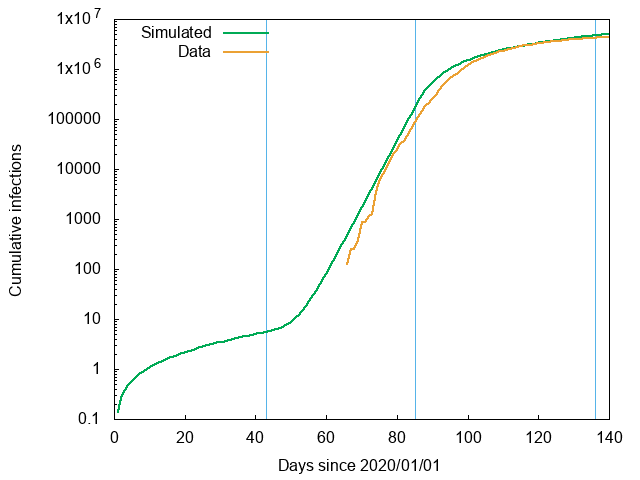
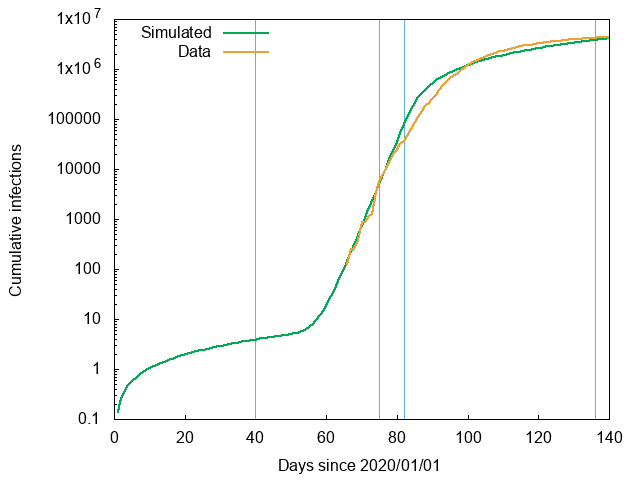
fit better

diff --git a/README-Assumptions.md b/README-Assumptions.md
@@ -164,7 +164,7 @@ the duration of infectiousness and is fixed at one week.
 
 *Justification:*
 
-### Assumption: the overall infection fatality rate (IFR) is 0.008
+### Assumption: the overall infection fatality rate (IFR) is 0.01
 
 The model does not explicitly produce a time-series for the number of dead.
 Rather, it produces the number of individuals removed through recovery or death.
@@ -174,7 +174,9 @@ vary and reflection in the model as the probability of infection (and
 consequently the overall force of the epidemic) depends strongly on this value.
 
 *Justification:* scientific consensus appears to be converging on an IFR of
-around 1% or slightly lower [citation]. However we conduct sensitivity analysis 
+around 1% [citation]. However we conduct sensitivity analysis on the resulting
+infectiousness parameter to understand how this affects the behaviour of the
+model.
 
 ## Fitting the data
 
@@ -184,13 +186,13 @@ scientific consensus. The [PTTI software] includes a tool, `ptti-fit`, for
 calibrating the model to mortality data. The fitting is conducted using the
 [fitting scenario] that includes three interventions:
 
-  * on the 12th of February
-  * on the 26th of March
+  * on the 18th of February
+  * on the 23rd of March
   * on the 13th of May
 
 The first intervention represents a notional start to the epidemic implied by
-the UK government figures. However, we do not believe this to be the true
-date as discussed below
+the UK government figures under our model. However, we do not believe this to be
+the true date as discussed below.
 
 The number of contacts per unit time, *c*, was fixed at 1, and the
 infectiousness, *β*, was allowed to vary. No testing or contact tracing was
@@ -211,40 +213,58 @@ The vertical lines indicate the interventions and the case data begins on the
 6th of March. The values for *β* that were discovered by the optimisation
 process are,
 
-  * 0.175 (equivalent to R = 1.2) from the first of January to the 12th of February
-  * 1.15  (equivalent to R = 8) from the 12th of February until lock-down
-  * 0.144 (equivalent to R = 1) during lock-down
+  * 0.1529 (equivalent to R = 1) from the first of January to the 12th of February
+  * 1.59   (equivalent to R = 11) from the 12th of February until lock-down
+  * 0.1529 (equivalent to R = 1) during lock-down
 
 Of these, only the third is meaningful. The first may be disregarded as it is
 before the notional start of the epidemic implied by the UK government mortality
-data.
+data. Seeding the simulation on the first of January with one infectious
+individual, a value implying that R = 1 will maintain this until the notional
+start of the epidemic. That this was found automatically through fitting is
+a sanity check for identifying the 12th of February as the key date.
 
-The second figure of 1.15 (R = 8) during the initial phase of the epidemic is
+The second figure of 1.59 (R = 11) during the initial phase of the epidemic is
 conspicuously high and this bears explanation. It is, nevertheless, implied by
 the data as can be clearly seen from the figure when presented with a
 logarithmic scale. This value can be revised downwards easily by moving the
 notional start of the epidemic earlier and a value close to the scientific
-consensus value is obtained towards the end of December or beginning of January,
-the specific date not being very influential. The resulting curve, however, no
-longer matches the initial data.
+consensus value is obtained towards the end of December or the beginning of
+January, the specific date not being very influential for obtaining this value.
+The resulting curve, however, no longer matches the initial data. 
 
-The final figure of 0.144 (R = 1) during lock-down appears to be robust against
+The final figure of 0.1529 (R = 1) during lock-down appears to be robust against
 all efforts to vary the starting date and intervention timing, varying from
 slightly below to slightly above. Whilst the initial UK government data is
 suspect, the later data appears more reliable.
 
 On this basis, then, we can infer that *if* it is correct that lock-down reduces
 contact by 70% [citation] *then* the initial value for the infectiousness should
-be 0.476, implying R0 of 3.3, within the range of scientific consensus. By
-adjusting the notional start of the epidemic to be in late December or early
-January, we obtain such an initial value without perturbing the fit or value of
-infectiousness during the lock-down period.
+be 0.51, implying R0 of 3.5, at the high end of the range of scientific
+consensus. By adjusting the notional start of the epidemic to be in late
+December or early January, we obtain such an initial value without perturbing
+the fit or value of infectiousness during the lock-down period.
+
+## Adjustment to dates
+
+Recall that this model assumes individuals are removed through hospitalisation
+or death. From what we have observed of disease progression, the second phase of
+the illness leading to death typically lasts 2-3 weeks. If the mean is 18 days,
+this means that, when fitting to mortality data with this model, an adjustment
+of 18 days is required. Therefore, measured as the first active case, the date
+implied by the UK government data is not the 12th of February but the 25th of
+January, and by the above argument, we believe the true beginning of the
+epidemic in the UK to be in mid-December.
+
+## Conclusions from fitting
 
 We therefore conclude that the following are *consistent with* the data:
 
-  1. The COVID-19 epidemic in the UK was probably seeded at the end of December
-     or beginning of January.
-  2. The reproduction number for a completely susceptible population in the
+  1. The UK government data implies an unreasonably high infectiousness and the
+     epidemic beginning on the 25th of January.
+  2. The COVID-19 epidemic in the UK was probably seeded at in the middle to end
+     of December 2019.
+  3. The reproduction number for a completely susceptible population in the
      absence of any interventions is about 3.3, implying an appropriate value
      for *β* in our full model (*c* equal to 13 without interventions) of 0.036.
 
